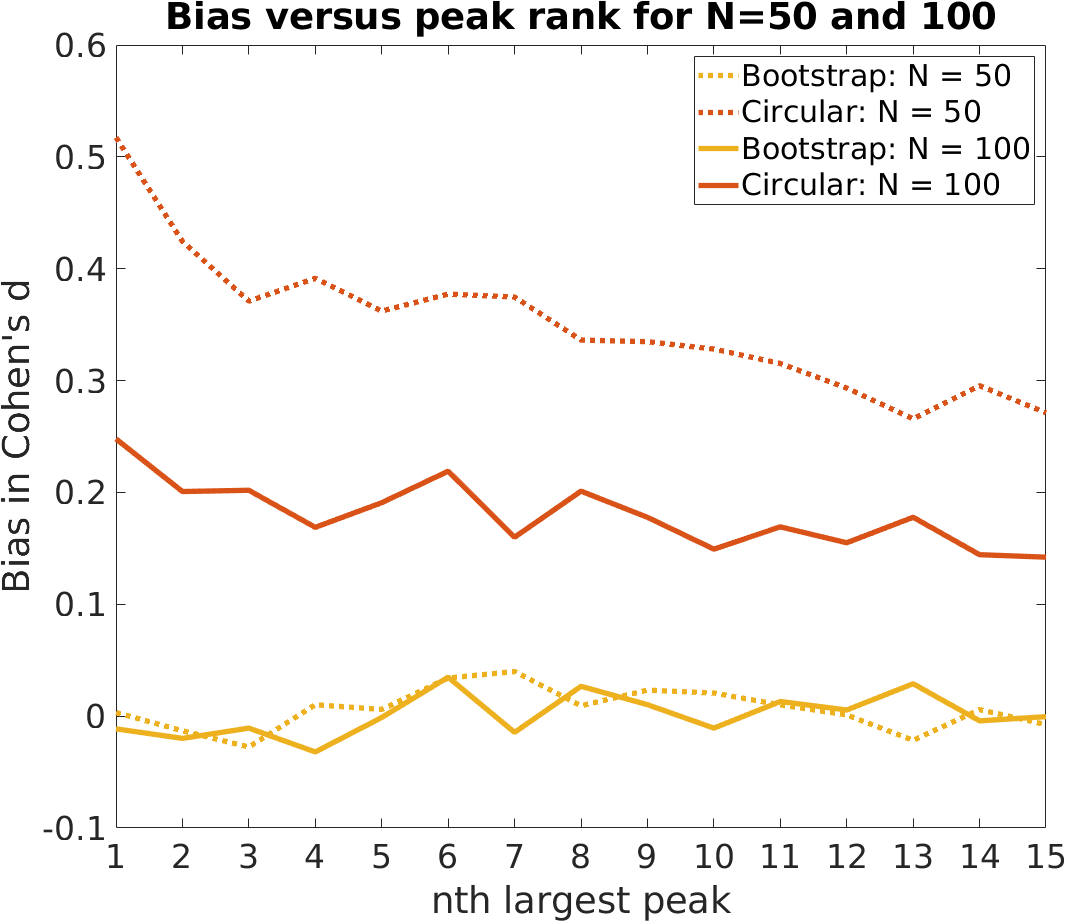
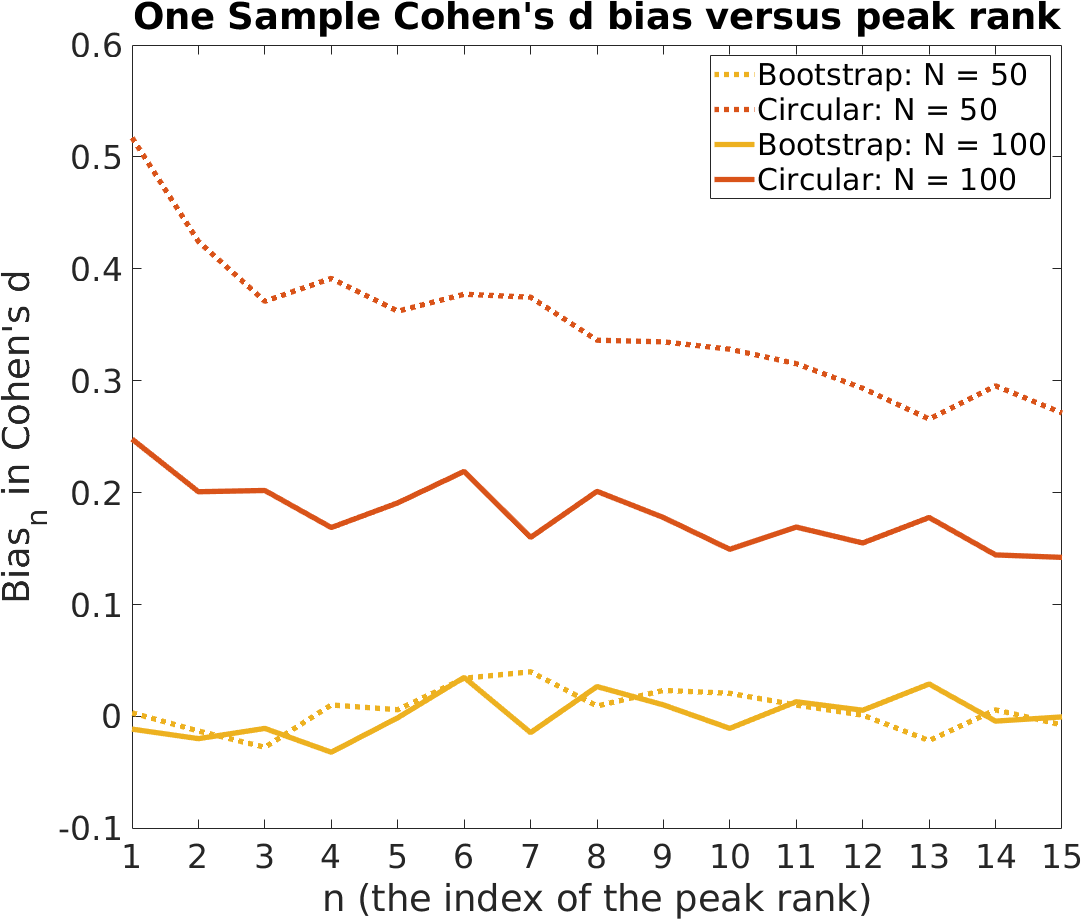
backup

diff --git a/ResultsFigures/Top20/top20gen.m b/ResultsFigures/Top20/top20gen.m
@@ -9,6 +9,9 @@ end
 save_loc = [SIbootstrap_loc, 'ResultsFigures/Top20/'];
 
 %%
+axis_font_size = 25;
+set(0,'defaultAxesFontSize', axis_font_size);
+
 % corresponding_figure = 'S3';
 pos_vector = [0,550,1200,1000];
 npeaks = 15;
@@ -82,21 +85,29 @@ for types = {'tstat', 't4lm', 'R2'}
     end
     if strcmp(type, 'tstat')
         yaxis_units = 'Cohen''s d';
+        title_beg = 'One Sample Cohen''s d';
     elseif strcmp(type, 'R2')
-        yaxis_units = 'R^2';
+        yaxis_units = 'partial R^2';
+        title_beg = 'R^2';
     elseif strcmp(type, 't4lm') || strcmp(type, 'mean')
         yaxis_units = '% BOLD';
+        title_beg = 'One Sample Mean';
     end
     
     h = plot(1:npeaks, bias_plots, 'Linewidth', 4);
     set(h, {'color'}, {def_col('yellow'); def_col('red'); def_col('yellow'); def_col('red')});
     set(h, {'LineStyle'}, {':'; ':';'-';'-'});
-    legend('Bootstrap: N = 50', 'Circular: N = 50', 'Bootstrap: N = 100', 'Circular: N = 100')
+    if strcmp(type, 'tstat')
+        legend('Bootstrap: N = 50', 'Circular: N = 50', 'Bootstrap: N = 100', 'Circular: N = 100')
+    elseif strcmp(type, 'R2')
+        legend('Bootstrap: N = 100', 'Circular: N = 100', 'Bootstrap: N = 150', 'Circular: N = 150')
+    end
     xlim([1,npeaks])
     xticks(1:npeaks)
-    title(['Bias versus peak rank for N=',num2str(nsubj_vec(1)),' and ',num2str(nsubj_vec(2))])
-    xlabel('nth largest peak')
-    ylabel(['Bias in ', yaxis_units]);
+%     title(['Bias versus peak rank for N=',num2str(nsubj_vec(1)),' and ',num2str(nsubj_vec(2))])
+    title([title_beg, ' bias versus peak rank'])
+    xlabel('n (the index of the peak rank)')
+    ylabel(['Bias_n in ', yaxis_units]);
     set(gcf, 'position', pos_vector)
     export_fig([filename,'_top_bias'], '-transparent')
     
@@ -117,9 +128,10 @@ for types = {'tstat', 't4lm', 'R2'}
     xlim([1,npeaks])
     ylim(rsme_ylimit)
     xticks(1:npeaks)
-    title(['RMSE versus peak rank for N=',num2str(nsubj_vec(1)),' and ',num2str(nsubj_vec(2))])
-    xlabel('nth largest peak')
-    ylabel(['RMSE in ', yaxis_units]);
+%     title(['RMSE versus peak rank for N=',num2str(nsubj_vec(1)),' and ',num2str(nsubj_vec(2))])
+    title([title_beg, ' RMSE versus peak rank'])
+    xlabel('n (the index of the peak rank)')
+    ylabel(['RMSE_n in ', yaxis_units]);
     set(gcf, 'position', pos_vector)
     export_fig([filename,'_top_rmse'], '-transparent')
 end
